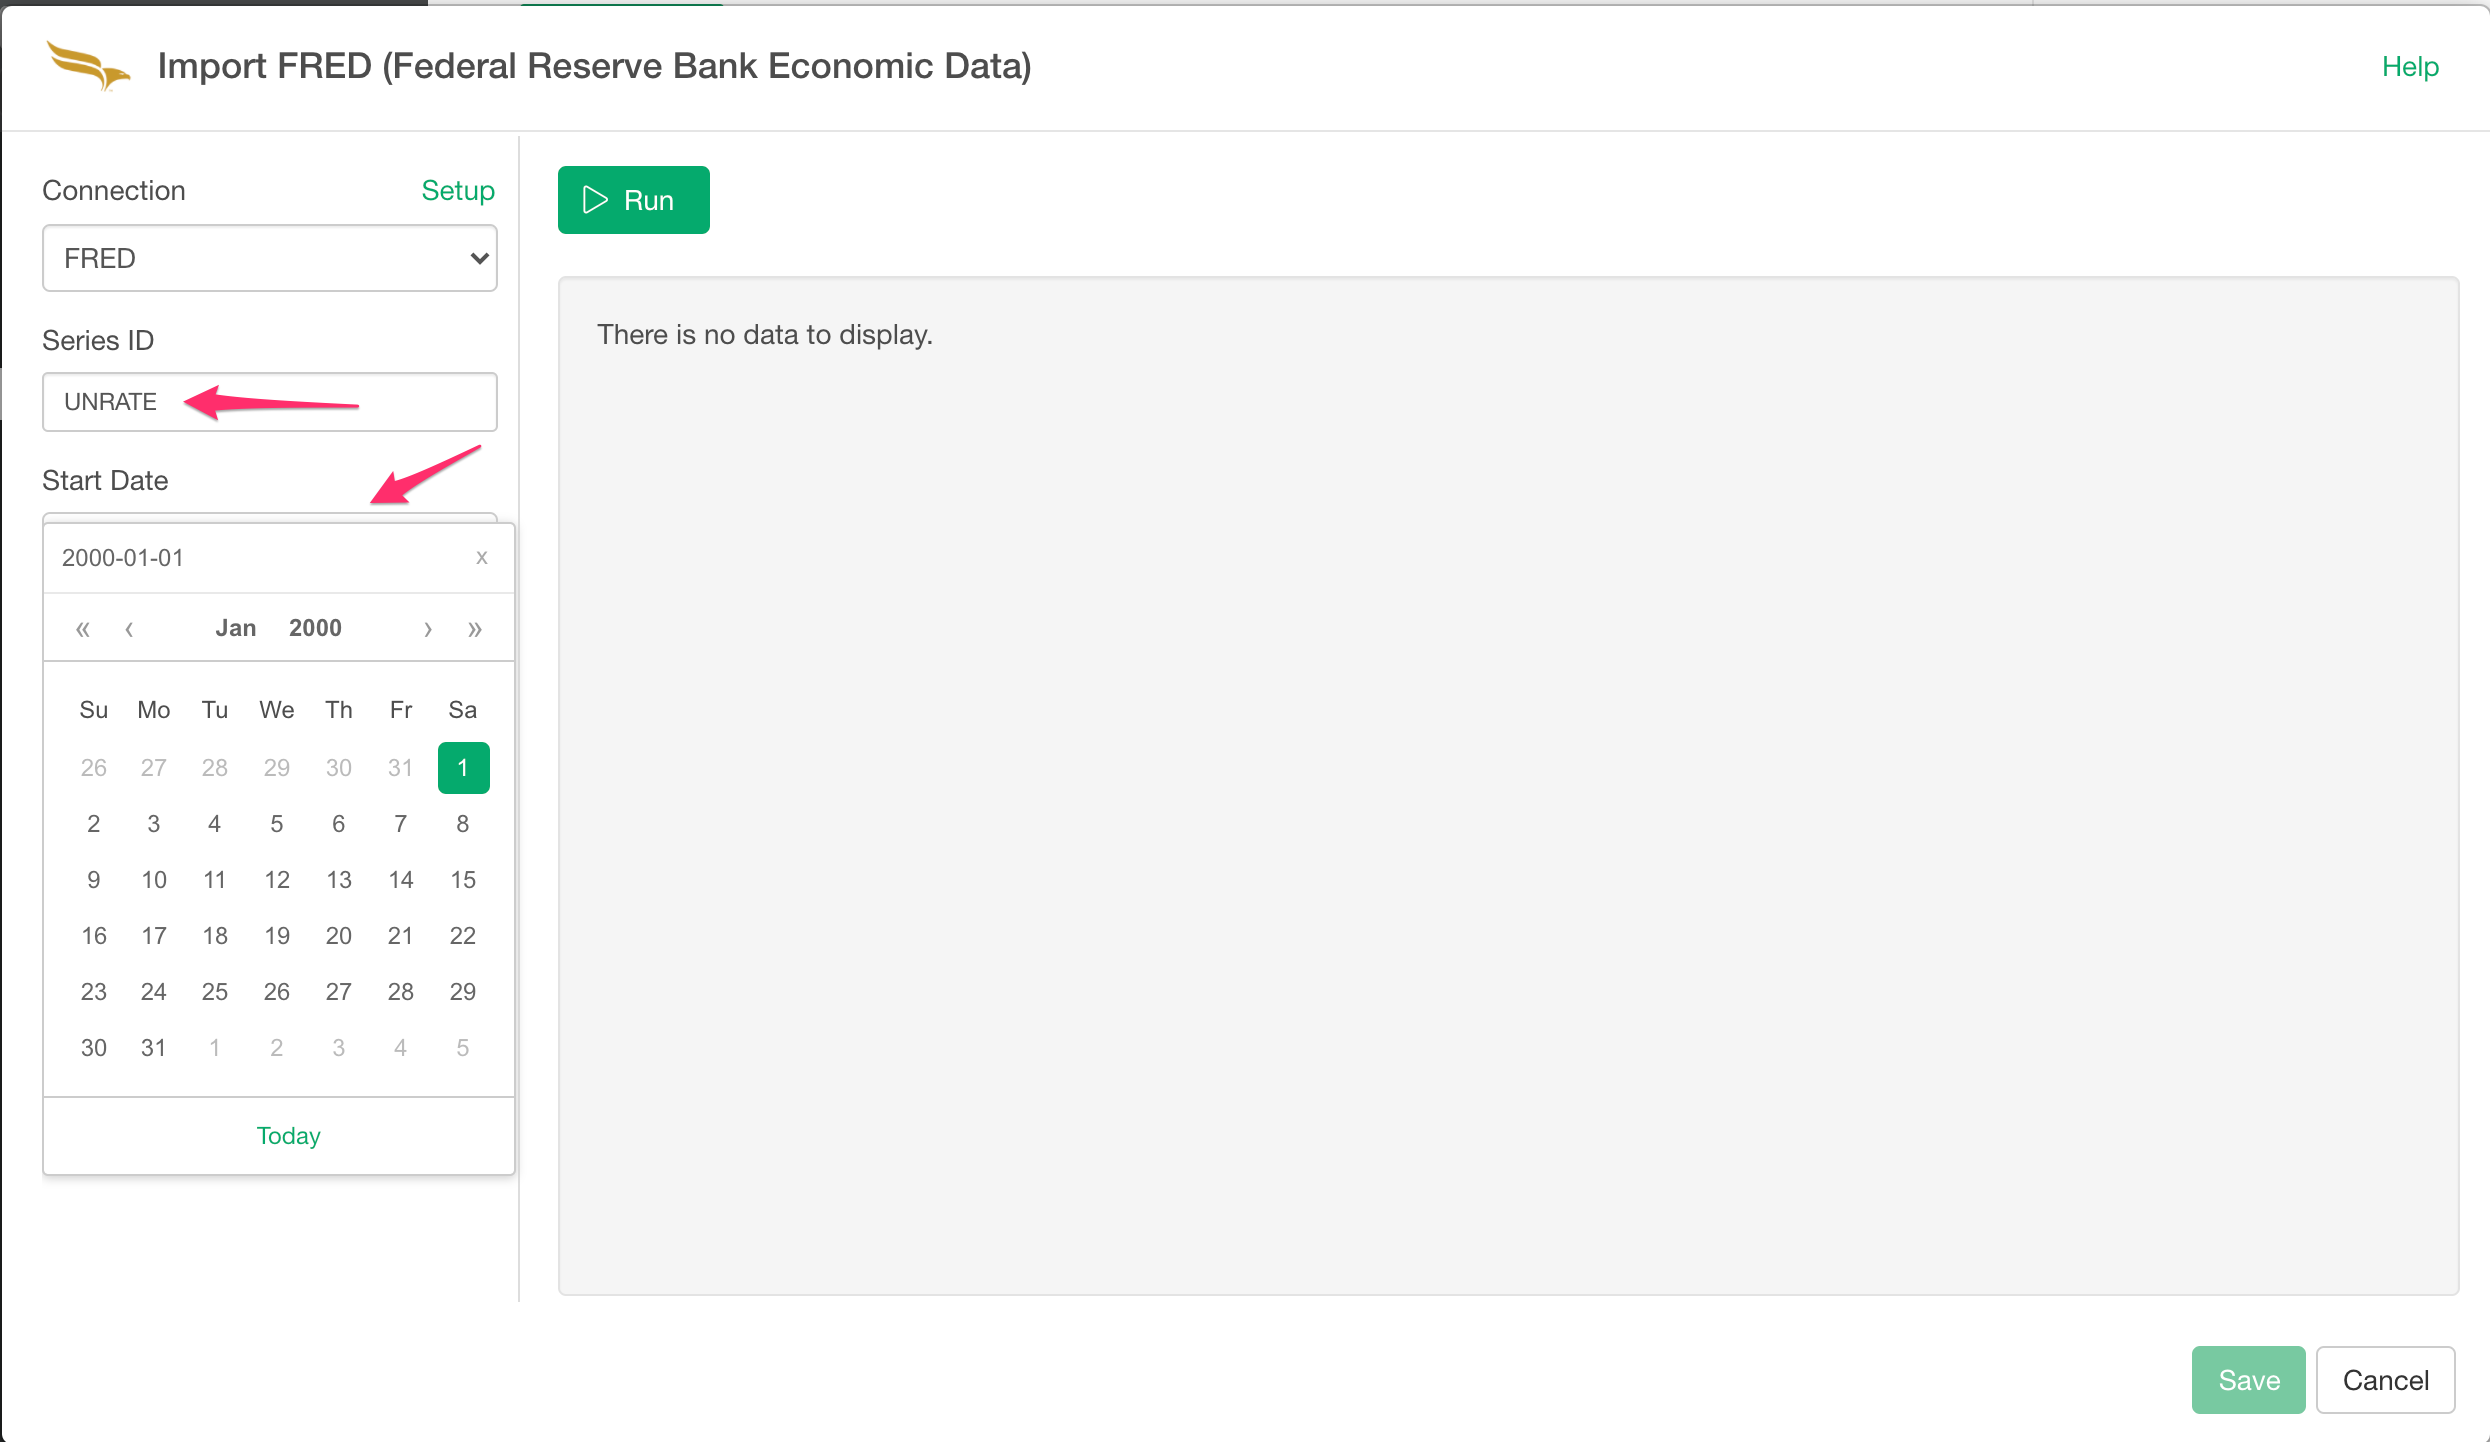
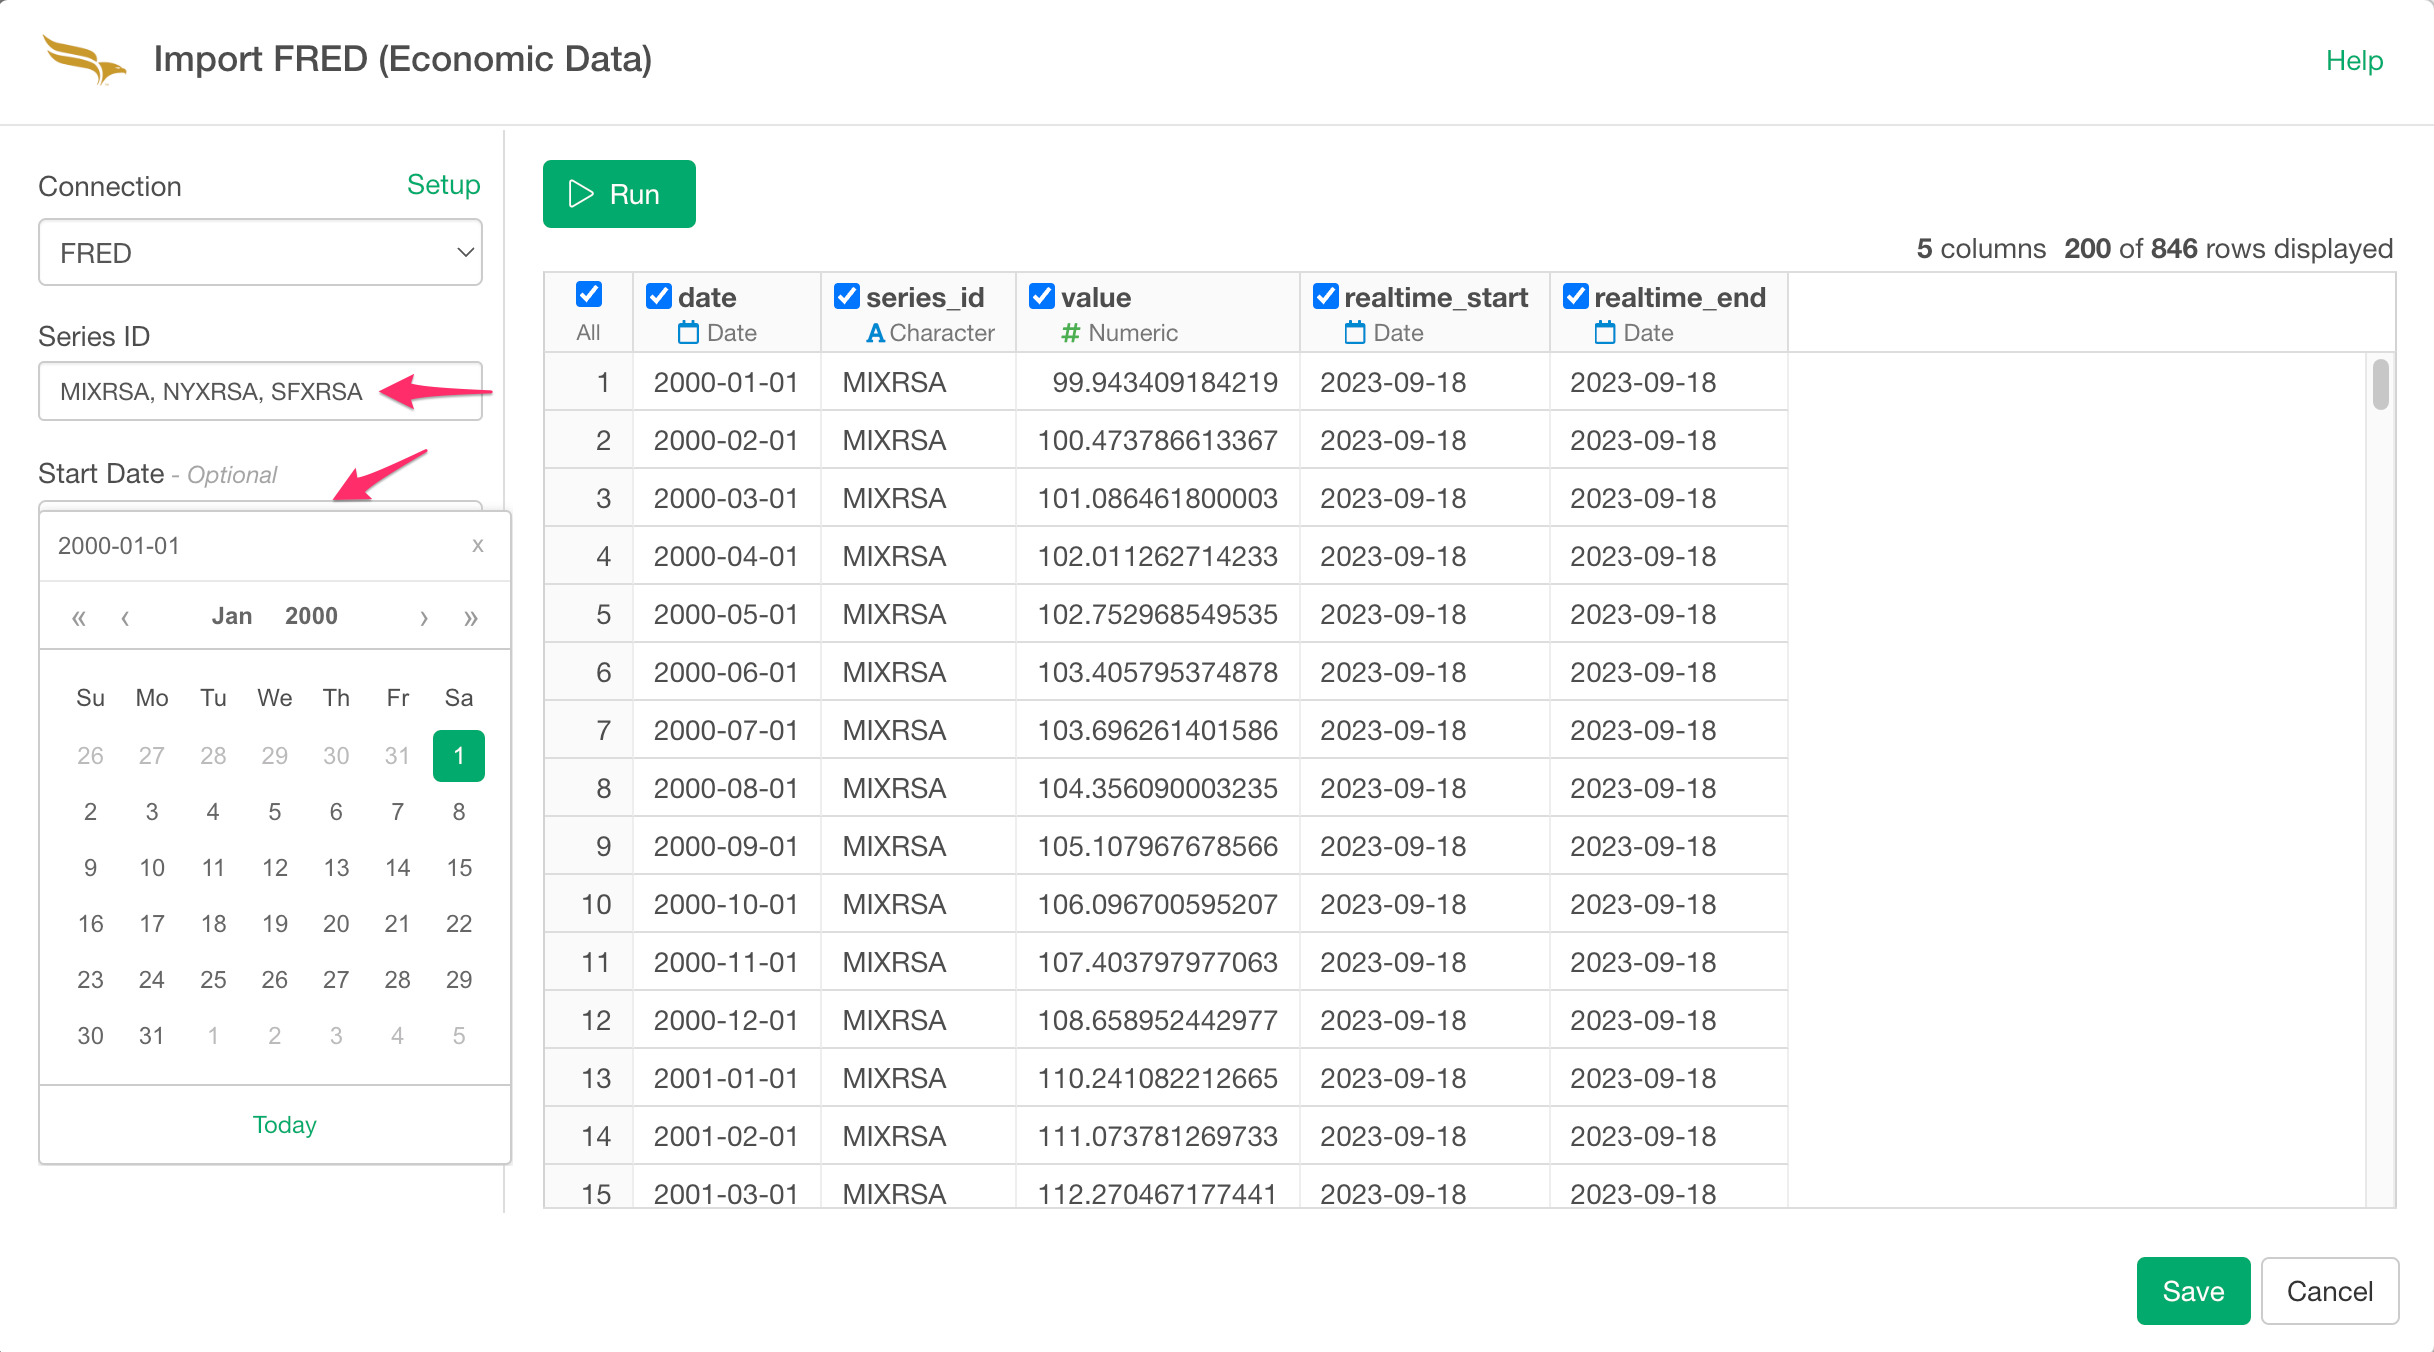
Updated FRED doc for multiple series IDs support.

diff --git a/import/fred.md b/import/fred.md
@@ -20,11 +20,16 @@ Type connection name and FRED API Key. Test connection and if it works ok, click
 
 ![](images/fred-setting.png)
 
-Type in Series ID, e.g. UNRATE for unemployment rate, and select Start Date. 
+Type in Series ID, e.g. UNRATE for unemployment rate. You can set multiple Series ID by separating them by comma(,).
+For example, you can type in MIXRSA, NYXRSA, SFXRSA as Series IDs to get Real State Price Index for Miami, New York, and San Francisco.
+
 You can search Series ID in https://fred.stlouisfed.org/tags/series 
+
+Start Date and End Date are optional. If you leave them blank, it will get all data available.
 
 ![](images/fred_preview.png)
 
-Click "Run". If the preview is okay, click "Import".
+Click the "Run" button to preview data. If the preview looks okay, click the "Save" button.
+
 ![](images/fred_preview2.png)
 
